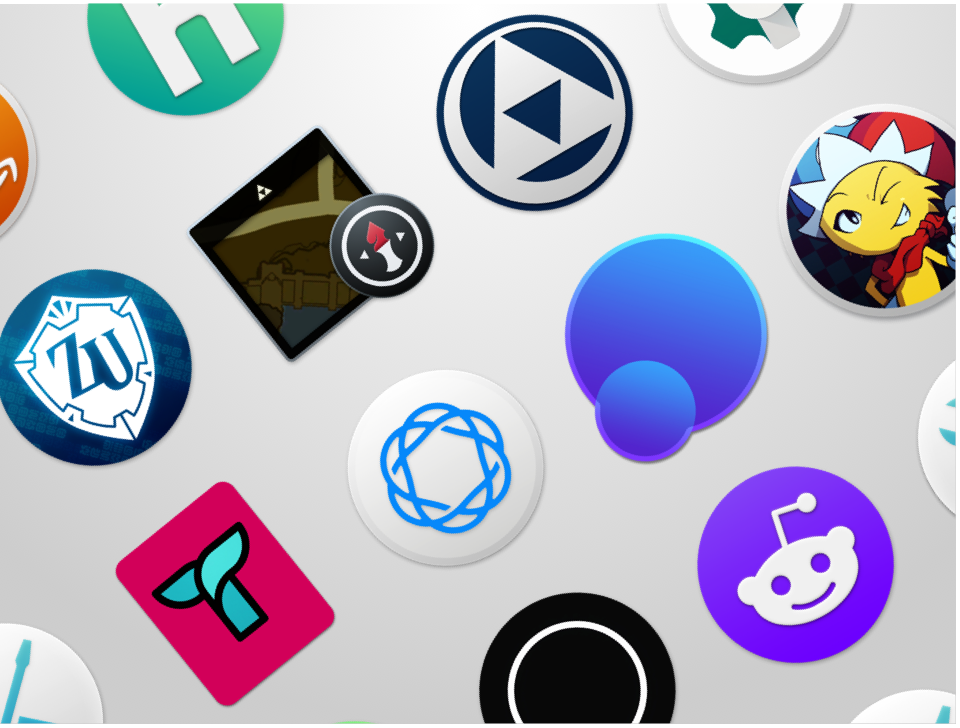
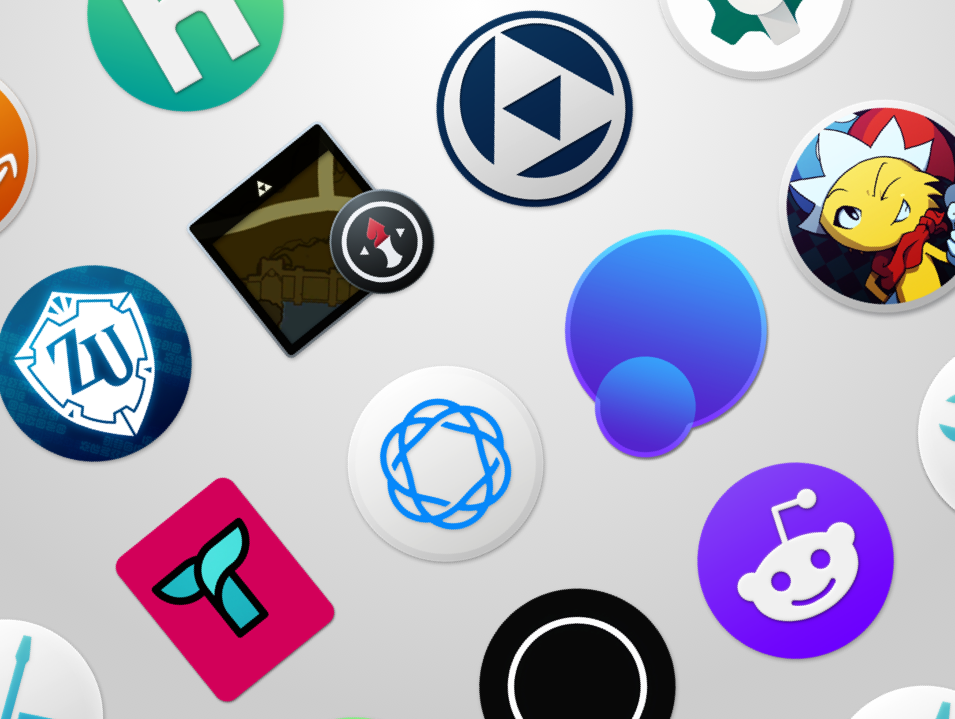
wip

diff --git a/style.css b/style.css
@@ -218,11 +218,19 @@ nav {
 }
 
 .item.zelda-maps {
-	background-image: url(images/zelda-maps-preview.png);
+	background-size: 80%;
+	background-repeat: no-repeat;
+	background-image:
+		url(images/zelda-maps-logo.png),
+		url(images/zelda-maps-preview.png);
 }
 
 .item.zelda-wiki {
-	background-image: url(images/zelda-wiki-preview.png);
+	background-size: 80%;
+	background-repeat: no-repeat;
+	background-image:
+		url(images/zelda-wiki-logo.png),
+		url(images/zelda-wiki-preview.png);
 }
 
 .item.app-icons {

diff --git a/index.html b/index.html
@@ -34,7 +34,7 @@
 		    </div>
 	    </div>
     </div>
-    <div class="content">
+    <div class="content index">
 	    <div class="item goldenchaos-btt">
 			
 	    </div>
